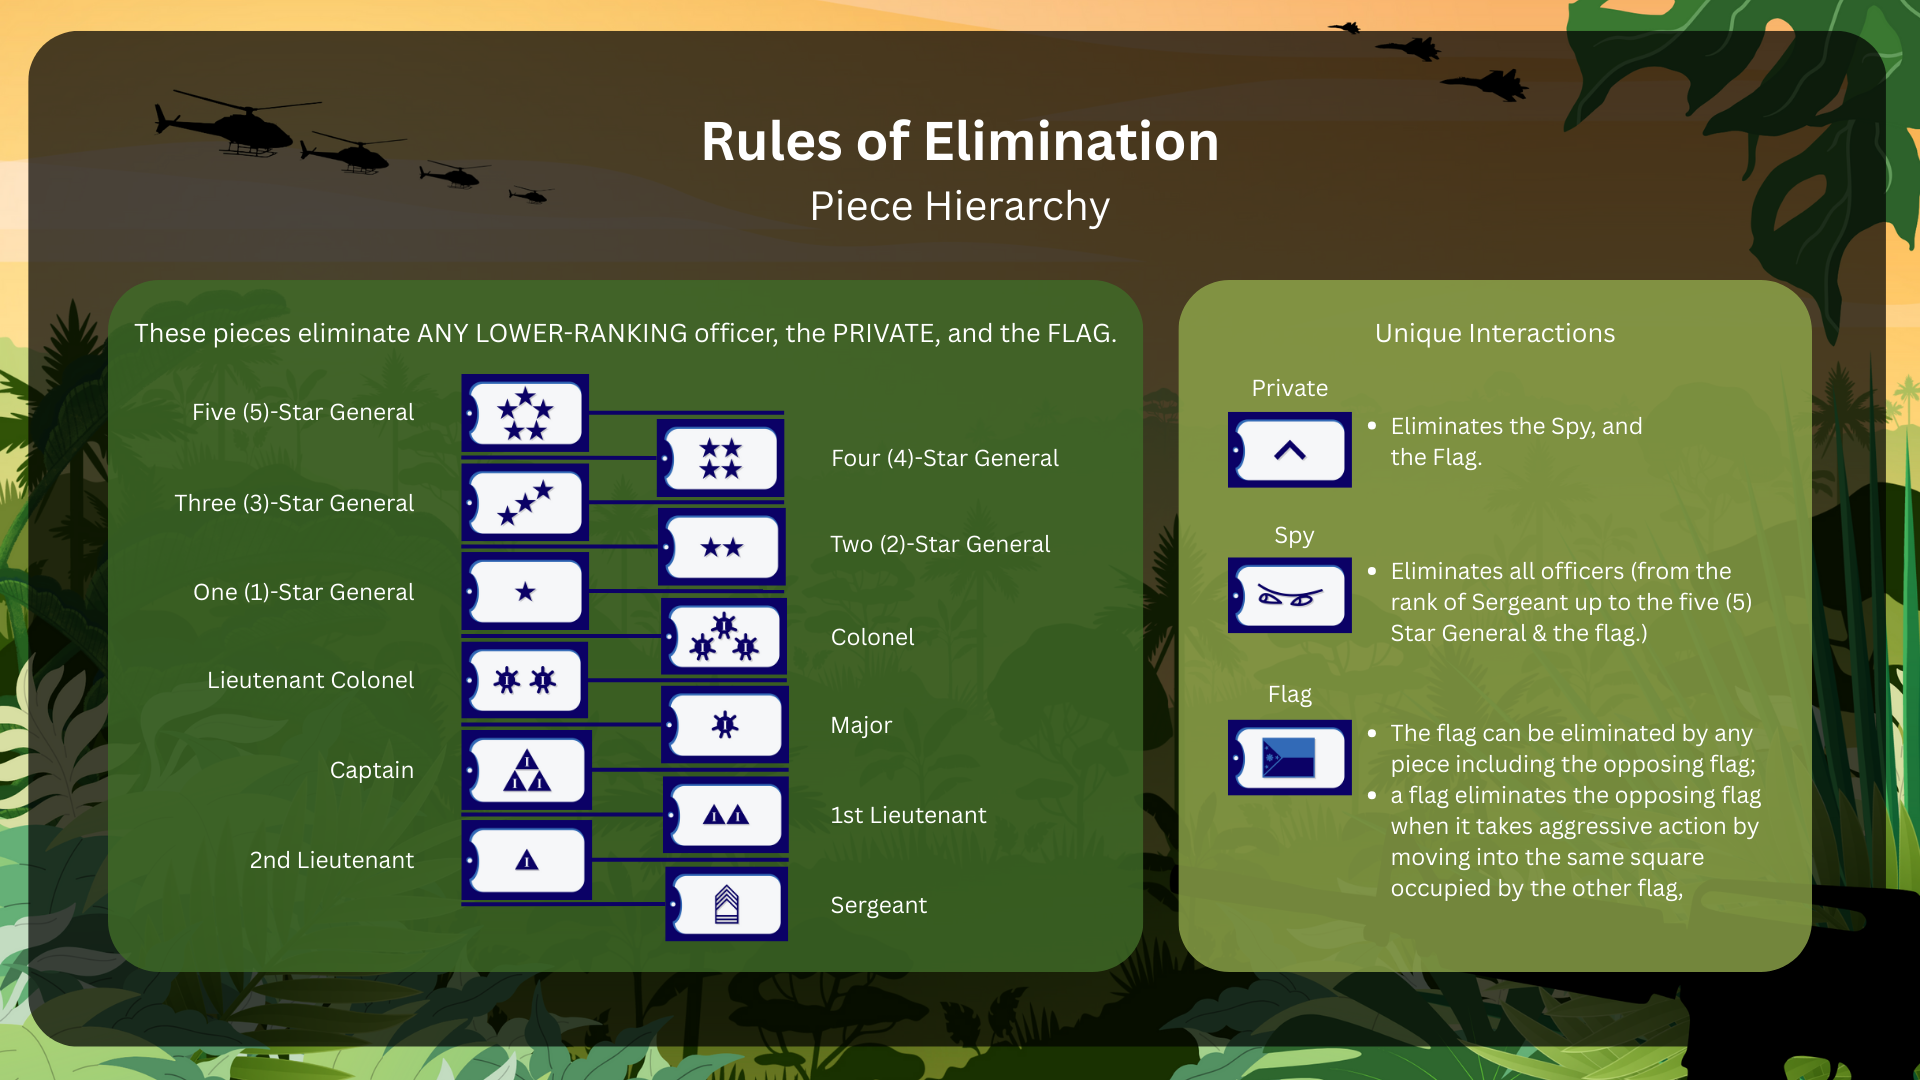
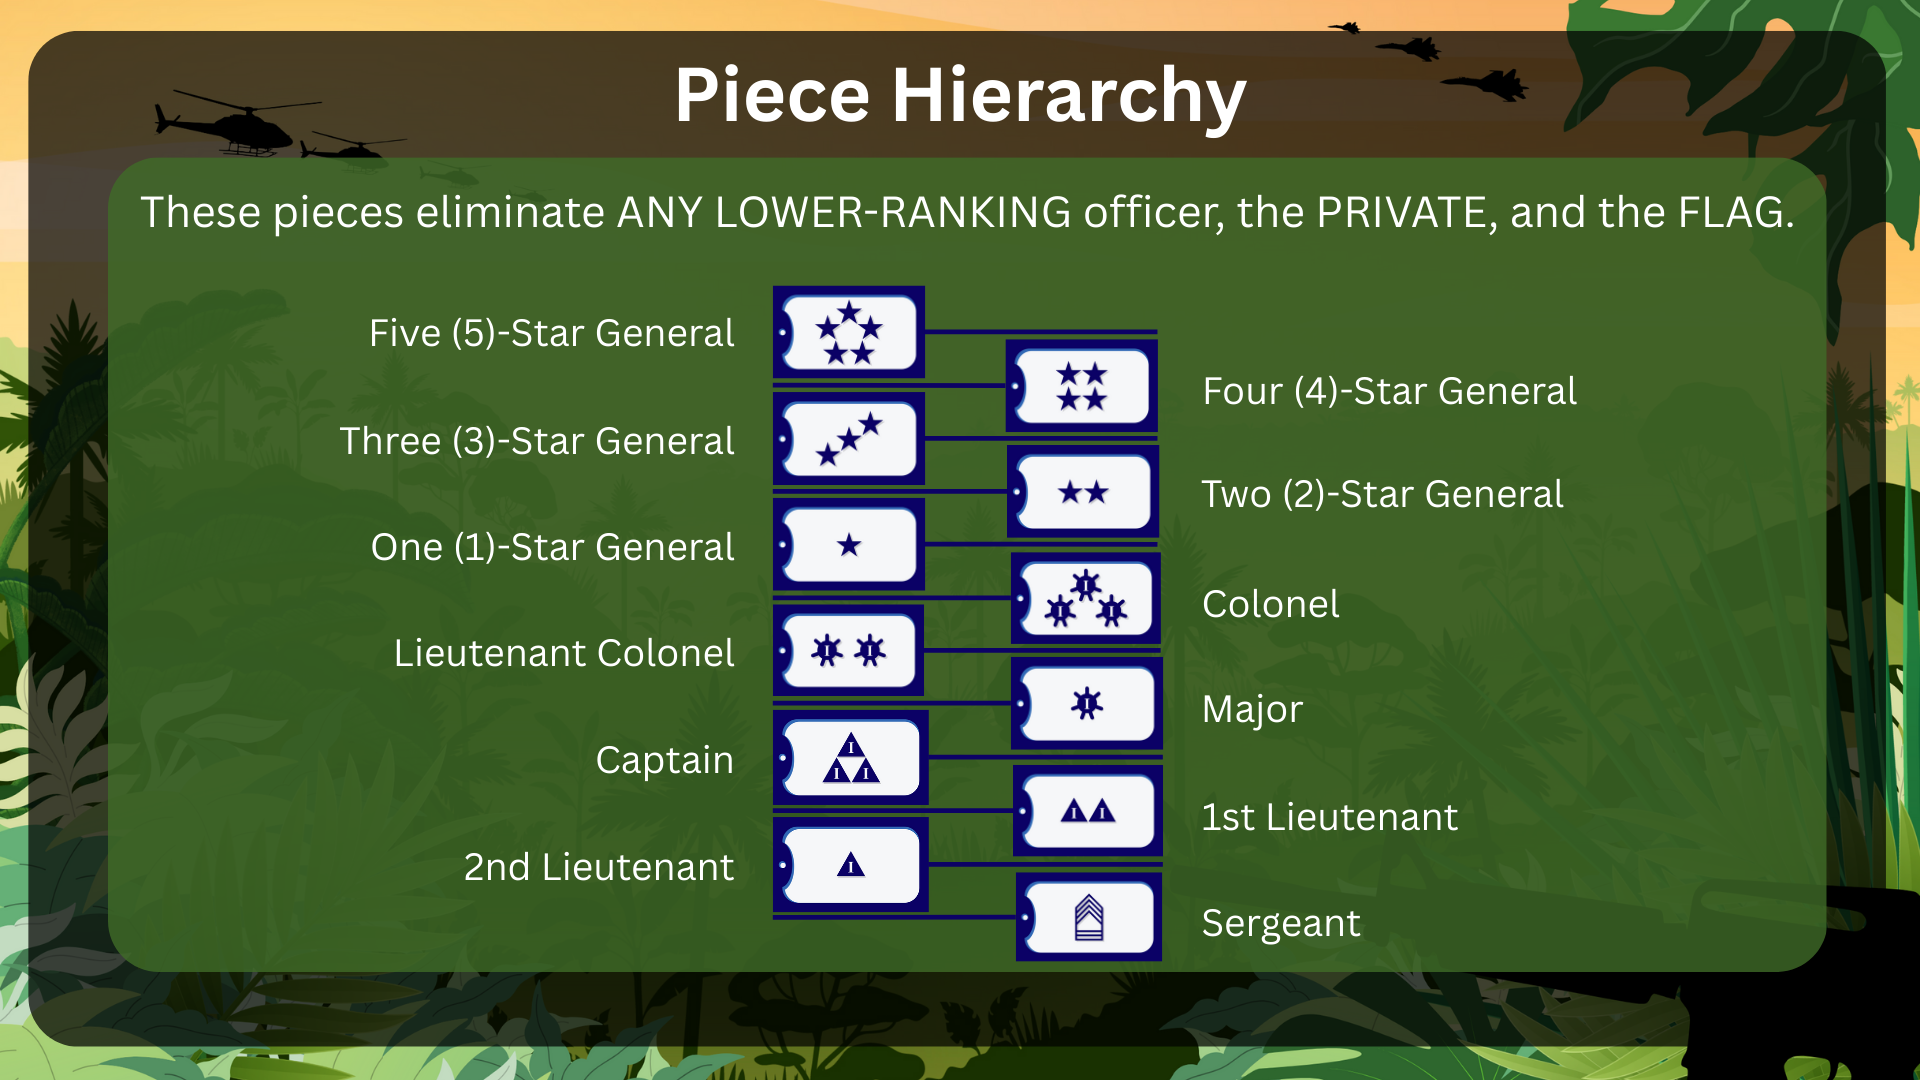
update rules and tutorial images; add new rules and update instructions

diff --git a/frontend/GG/gg-app/src/pages/RulesTutorial.js b/frontend/GG/gg-app/src/pages/RulesTutorial.js
@@ -9,6 +9,8 @@ import RuleTitle from '../assets/rules/RuleTitle.png';
 import Rule1 from '../assets/rules/Rule1.png';
 import Rule2 from '../assets/rules/Rule2.png';
 import Rule3 from '../assets/rules/Rule3.png';
+import Rule4 from '../assets/rules/Rule2.png';
+import Rule5 from '../assets/rules/Rule3.png';
 
 import Tutorial from '../assets/tutorials/Tutorial.png';
 import Step1 from '../assets/tutorials/Step1.png';
@@ -36,8 +38,10 @@ const RulesTutorial = () => {
     const set1 = [
         { illustration: RuleTitle, instruction: 'Rules' },
         { illustration: Rule1, instruction: "Preparing for Battle: Arrange your set of pieces on the first three (3) rows on your end of the board. You are free to arrange the pieces according to your strategy of style of play." },
-        { illustration: Rule2, instruction: 'Rules of Elimination' },
-        { illustration: Rule3, instruction: 'Movement, Challenging, and End of Game' }
+        { illustration: Rule2, instruction: 'Piece Hierarchy' },
+        { illustration: Rule3, instruction: 'Unique Interactions' },
+        { illustration: Rule4, instruction: 'Movement and Challenge' },
+        { illustration: Rule5, instruction: 'How the Game Ends' }
     ];
 
     const set2 = [
